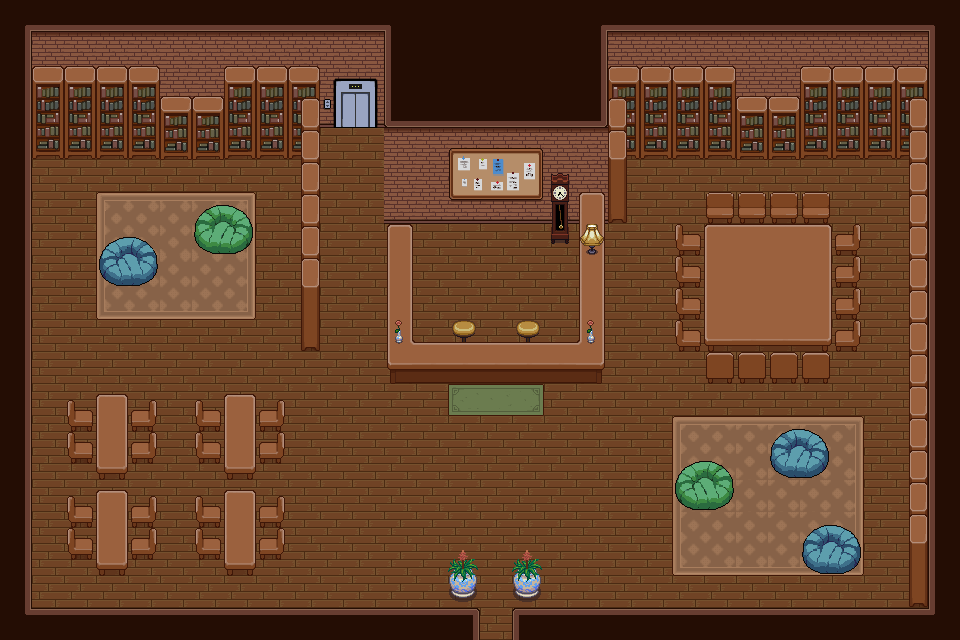
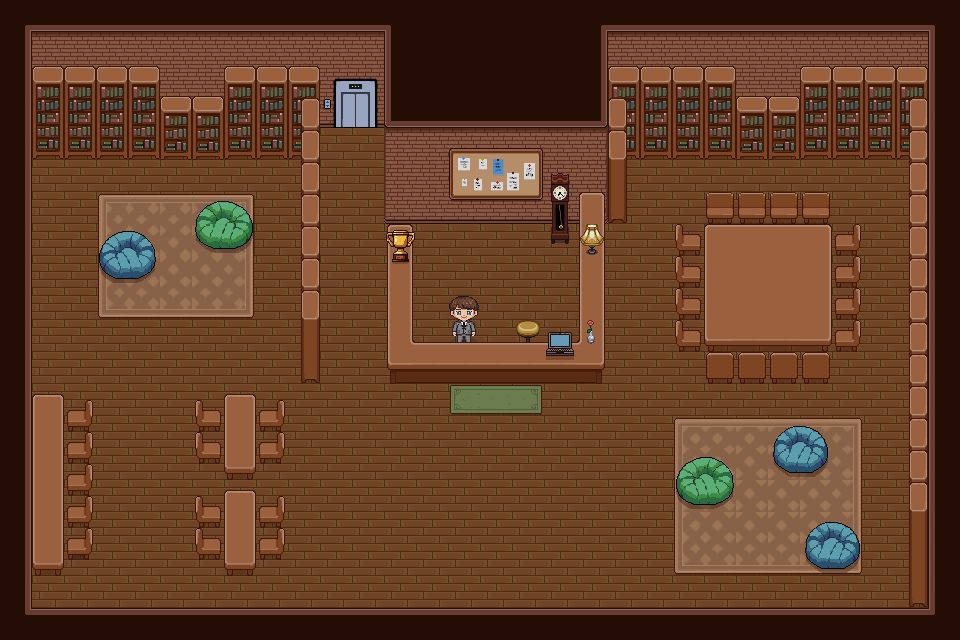
feat(ui): update background image and implement changing background via category

diff --git a/frontend/src/pages/game/GamePage.tsx b/frontend/src/pages/game/GamePage.tsx
@@ -2,25 +2,34 @@ import { useEffect, useRef } from 'react';
 
 import { GameLayout } from '@/components/layout/GameLayout';
 import { useGame } from '@/features/core/useGame';
+import { CATEGORY_MAP } from '@/features/map/mapAssets';
 import { BookTalkCategoryDropdown } from '@/features/ui/BookTalkCategoryDropdown';
 import { GameSidebar } from '@/features/ui/GameSidebar';
 import { useAuthStore } from '@/store/useAuthStore';
+import { useBookTalkRoomStore } from '@/store/useBookTalkRoomStore';
 import { useGameStore } from '@/store/useGameStore';
 import { useModalStore } from '@/store/useModalStore';
 import { useSocketStore } from '@/store/useSocketStore';
 
 export const GamePage = () => {
   const containerRef = useRef<HTMLDivElement>(null);
-  const { gameAppRef, isReady } = useGame(containerRef);
   const lastFloorRef = useRef<string | null>(null);
+
+  const { gameAppRef, isReady } = useGame(containerRef);
+
   const currentFloor = useGameStore((state) => state.currentFloor);
   const spawnPoint = useGameStore((state) => state.spawnPoint);
   const setRoomId = useGameStore((state) => state.setRoomId);
+
+  const user = useAuthStore((state) => state.user);
   const accessToken = useAuthStore((state) => state.accessToken);
+
+  const selectedCategoryId = useBookTalkRoomStore(
+    (state) => state.selectedCategoryId,
+  );
 
   const { connect, disconnect } = useSocketStore();
   const { openModal } = useModalStore();
-  const user = useAuthStore((state) => state.user);
 
   /**
    * 게임 화면에서 소켓 연결을 유지한다.
@@ -81,6 +90,22 @@ export const GamePage = () => {
       lastFloorRef.current = currentFloor;
     }
   }, [currentFloor, spawnPoint, gameAppRef, isReady, setRoomId]);
+
+  /**
+   * 카테고리 변경 감지
+   */
+  useEffect(() => {
+    if (isReady && gameAppRef.current) {
+      // [2] 여기서 UUID를 'science'나 'comic'으로 변환합니다.
+      // 맵에 없는 ID라면(전체보기 등) 빈 문자열이나 원래 ID를 사용하도록 처리
+      const mappedKey = CATEGORY_MAP[selectedCategoryId] || '';
+
+      console.log(`[GamePage] 변환: ${selectedCategoryId} -> ${mappedKey}`); // 확인용 로그
+
+      // [3] 변환된 키('science')를 GameApp에 전달합니다.
+      gameAppRef.current.updateBackground(mappedKey);
+    }
+  }, [selectedCategoryId, isReady]);
 
   return (
     <GameLayout canvasRef={containerRef} sideMenu={<GameSidebar />}>

diff --git a/frontend/src/features/core/GameApp.ts b/frontend/src/features/core/GameApp.ts
@@ -70,6 +70,7 @@ export class GameApp {
   private _worldWidth: number = 960;
   private _worldHeight: number = 640;
   private _currentFloorId: string = '';
+  private _currentFloorType: FloorType | null = null;
   private _sendMoveThrottled: (payload: MoveRequest) => void;
 
   private readonly MOVE_SPEED = 4;
@@ -151,6 +152,7 @@ export class GameApp {
     this._worldWidth = mapConfig.width ?? this.DEFAULT_WIDTH;
     this._worldHeight = mapConfig.height ?? this.DEFAULT_HEIGHT;
     this._currentFloorId = mapConfig.floorId;
+    this._currentFloorType = floor;
 
     // 플레이어 위치 설정
     const spawnPoint = useGameStore.getState().spawnPoint;
@@ -960,6 +962,33 @@ export class GameApp {
     };
     const { isConnected, sendMove } = useSocketStore.getState();
     if (isConnected) sendMove(payload);
+  }
+
+  // 카테고리에 따라 배경 이미지 교체
+  public async updateBackground(categoryId: string) {
+    // 현재 맵 정보 가져오기
+    if (!this._currentFloorType) return;
+    const mapConfig = MAP_DATA[this._currentFloorType];
+    if (!mapConfig) return;
+
+    console.log('📌 [GameApp] 요청받은 ID:', categoryId);
+
+    // 교체할 이미지 결정 (카테고리 배경화면 있으면 그걸로 아니면 default img)
+    const targetImg =
+      categoryId && mapConfig.categoryImgs?.[categoryId]
+        ? mapConfig.categoryImgs[categoryId]
+        : mapConfig.img;
+
+    try {
+      const texture = await Assets.load(targetImg);
+
+      // 배경 스프라이트 텍스처 교체
+      if (this._bgSprite) {
+        this._bgSprite.texture = texture;
+      }
+    } catch (error) {
+      console.error(`[GameApp] 배경 변경 실패 (${targetImg}):`, error);
+    }
   }
 
   // 다른 플레이어들 위치 업데이트

diff --git a/frontend/src/features/map/mapAssets.ts b/frontend/src/features/map/mapAssets.ts
@@ -1,11 +1,13 @@
 import bookConcertMapRaw from '@/assets/maps/book_concert.tmj?raw';
 import bookConcertImg from '@/assets/maps/book_concert_floor.png';
+import booktalkFloorImg from '@/assets/maps/book_talk_floor.png';
 import bookTalkMapRaw from '@/assets/maps/book_talk_floor.tmj?raw';
-import booktalkFloorImg from '@/assets/maps/booktalk_floor.png';
+import booktalkFloorComicImg from '@/assets/maps/book_talk_floor_comic.png';
+import booktalkFloorScienceImg from '@/assets/maps/book_talk_floor_science.png';
 import conferenceFloorImg from '@/assets/maps/conference_floor.png';
 import conferenceMapRaw from '@/assets/maps/conference_floor.tmj?raw';
+import lobbyImg from '@/assets/maps/lobby.png';
 import lobbyMapRaw from '@/assets/maps/lobby.tmj?raw';
-import lobbyImg from '@/assets/maps/lobby_floor.png';
 import myRoomImg from '@/assets/maps/my_room.png';
 import readingFloorImg from '@/assets/maps/reading_floor.png';
 import readingMapRaw from '@/assets/maps/reading_floor.tmj?raw';
@@ -130,6 +132,11 @@ const getMapProps = (mapData: TiledMap | null) => {
     height,
     collision: collision ?? undefined,
   };
+};
+
+export const CATEGORY_MAP: Record<string, string> = {
+  'f92eb0f2-a547-4004-80d6-5310c7731595': 'science',
+  '84ed26a7-9eff-436e-b8ad-f40051b0e674': 'comic',
 };
 
 const lobbyMap = parseTiledMap(lobbyMapRaw, 'lobby.tmj');
@@ -313,6 +320,10 @@ export const MAP_DATA: Record<FloorType, MapConfig> = {
     defaultRoomId: null,
     name: '독서 모임 공간',
     img: booktalkFloorImg,
+    categoryImgs: {
+      science: booktalkFloorScienceImg,
+      comic: booktalkFloorComicImg,
+    },
     ...bookTalkMapProps,
     zones: [
       {

diff --git a/frontend/src/types/map.types.ts b/frontend/src/types/map.types.ts
@@ -89,6 +89,7 @@ export interface MapConfig {
   defaultRoomId?: string | null; // myRoom에서는 필요 없음
   name: string;
   img: string;
+  categoryImgs?: Record<string, string>; // booktalk에서 일부 카테고리에만 지정
   width?: number;
   height?: number;
   collision?: MapCollisionConfig;
